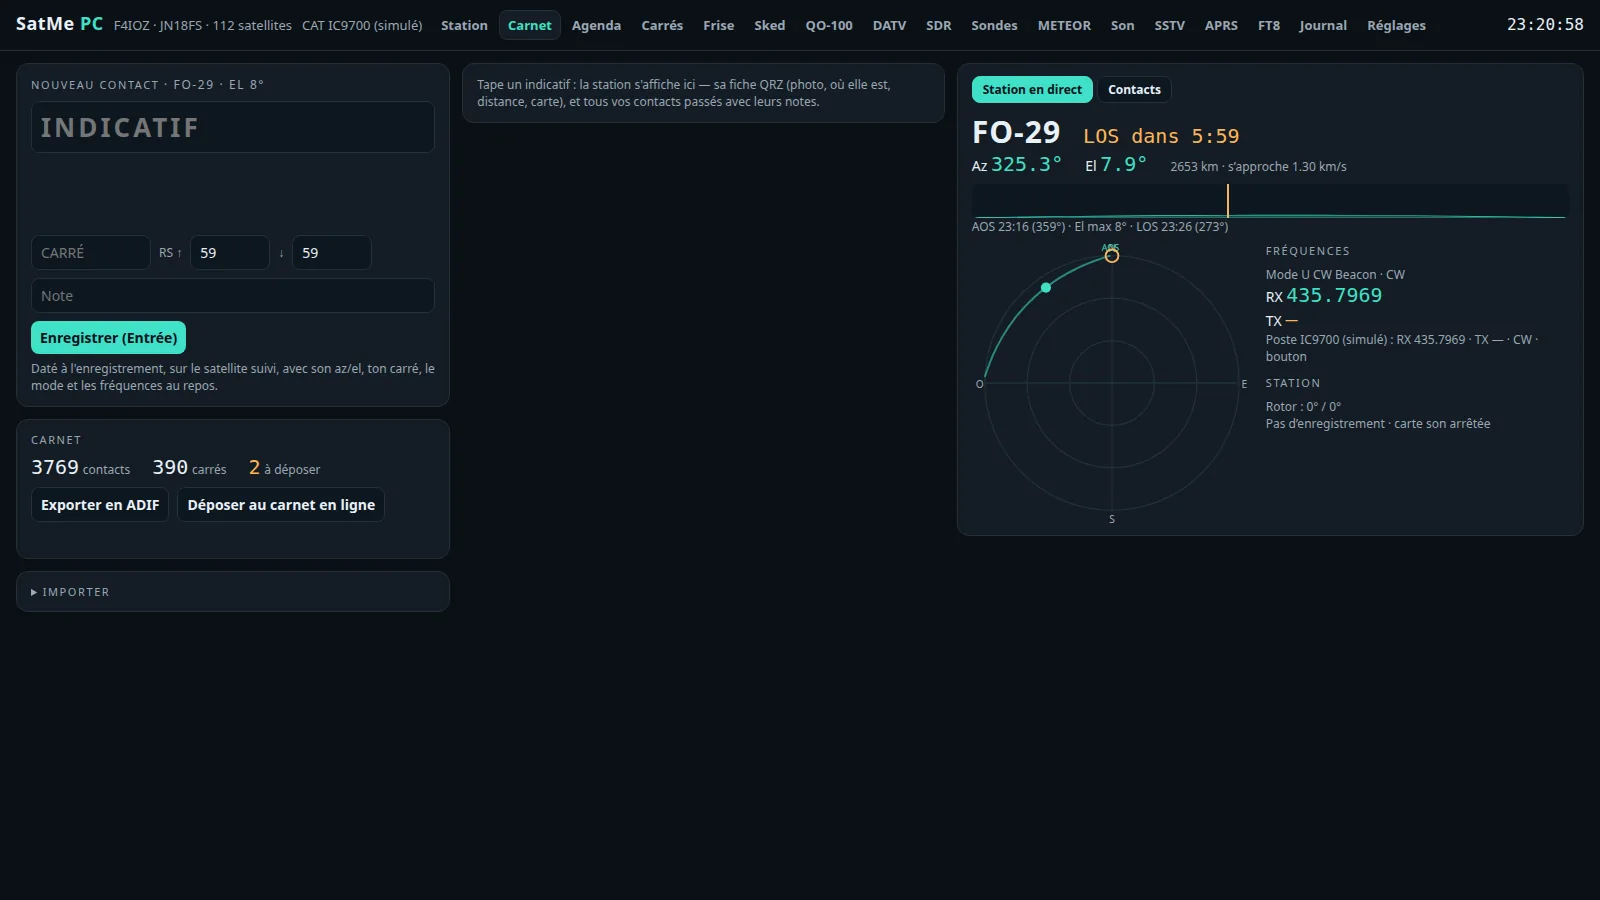
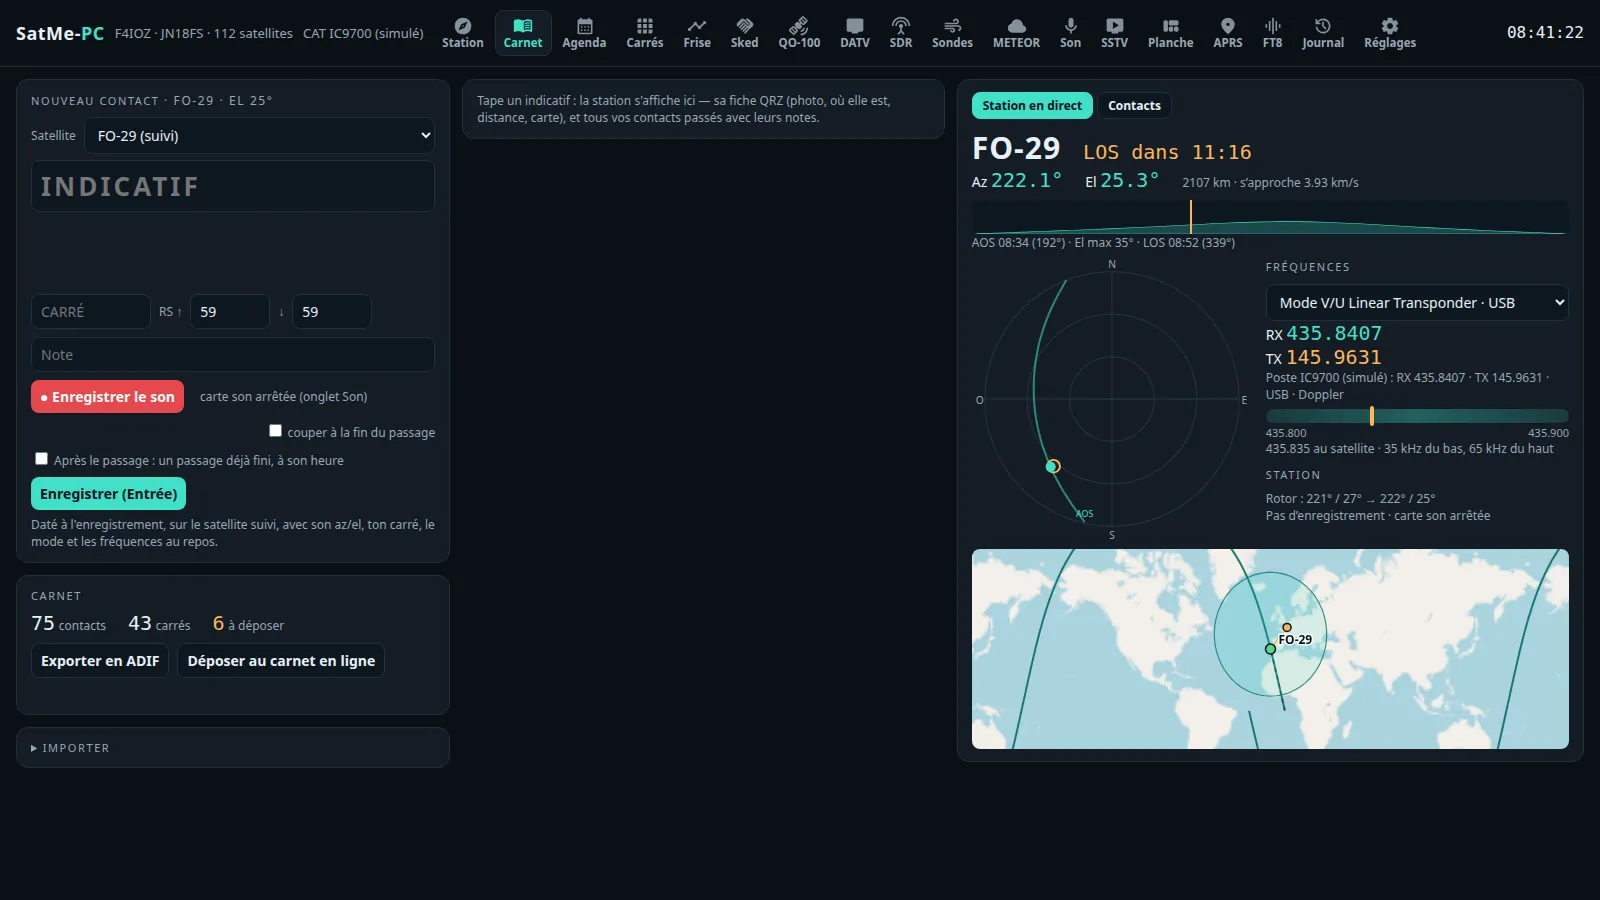
README, SatMe-PC pages: Station and Carnet screenshots of the new layout, FO-29 in its transponder

diff --git a/docs/station-pc.fr.md b/docs/station-pc.fr.md
@@ -6,7 +6,7 @@ SatMe tourne sur un PC (Linux, Windows, Raspberry Pi) et se pilote depuis un nav
 
 <p align="center"><img src="images/satme-ensemble-fr.svg" width="100%" alt="Les trois SatMe : le téléphone, SatMe-PC et SatMe-Node au pied du mât ; le téléphone rejoint le PC par un QR code ; le même moteur partout"></p>
 
-<p align="center"><img src="images/pc-station.webp" width="100%" alt="SatMe-PC, onglet Station : les prochains passages, le satellite suivi sur le ciel, l'encart AMSAT, les fréquences corrigées du Doppler, le poste et le rotor avec leur coche verte"></p>
+<p align="center"><img src="images/pc-station.webp" width="100%" alt="SatMe-PC, onglet Station : les prochains passages, FO-29 suivi sur le ciel, l'encart AMSAT, les fréquences corrigées du Doppler, le poste et le rotor avec leur coche verte"></p>
 
 ## L'installer
 
